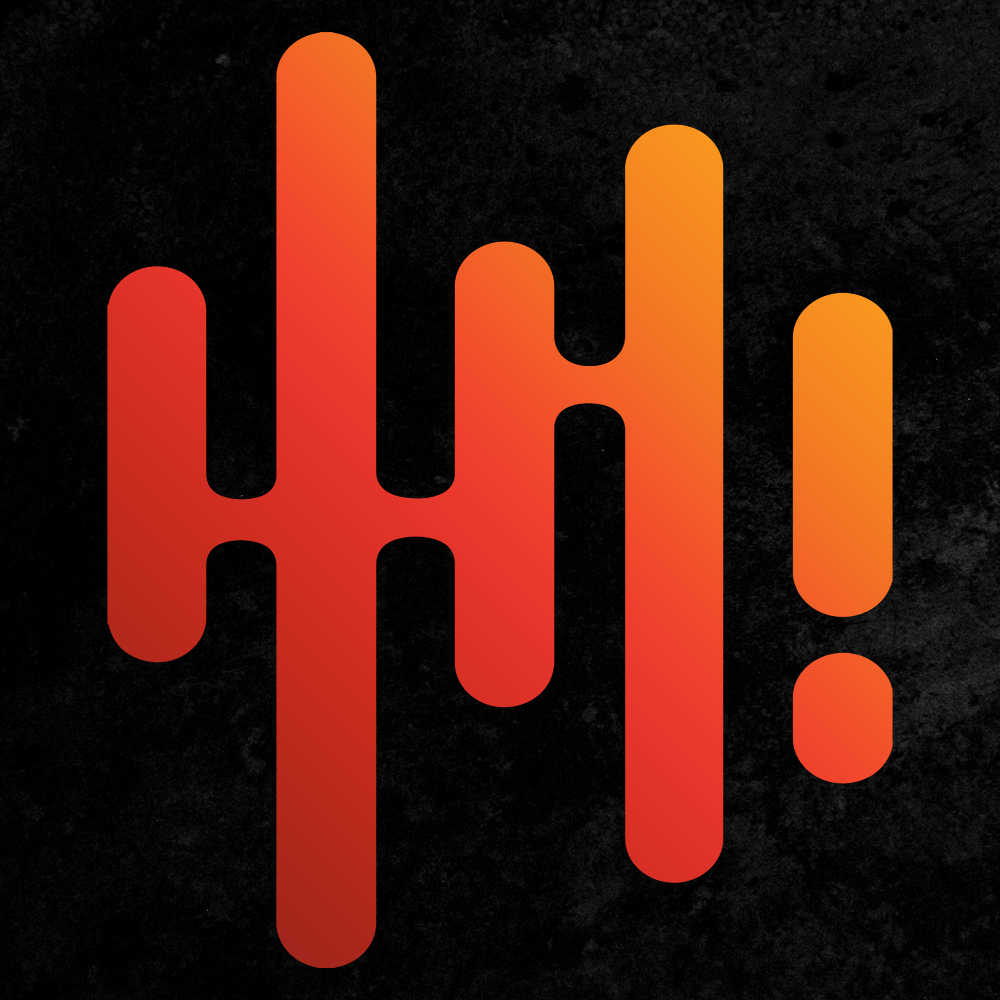
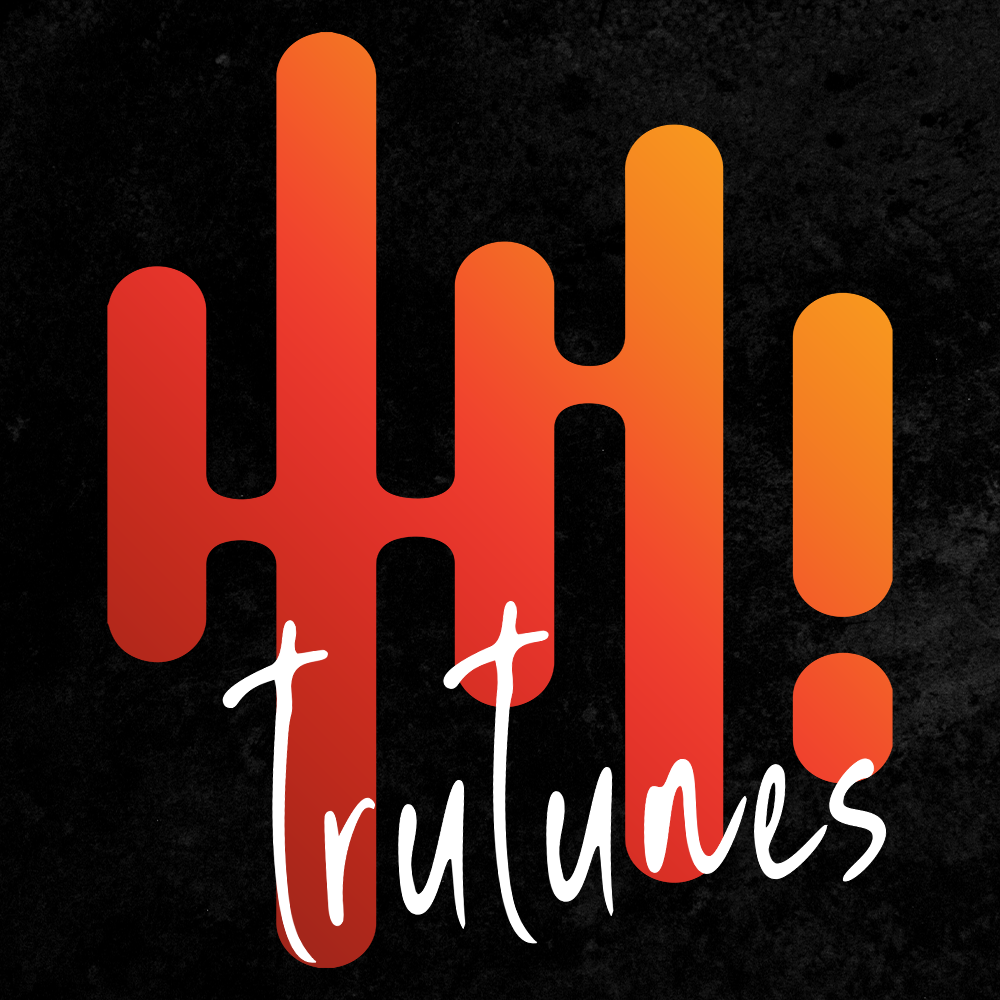
Add files via upload

Changed region(s): [[0.434, 0.589, 0.899, 0.961], [0.217, 0.62, 0.465, 0.961]]

diff --git a/playlist.html b/playlist.html
@@ -13,14 +13,25 @@
 :: PAGE INFO
 - - - - - - - - - - - - - -->
 <title>TruTunes Playlist</title>
-<link rel="icon" type="image/x-icon" href="img/favicon.ico"/>
+<link rel="icon" type="image/png" sizes="32x32" href="img/fav32.png">
+<link rel="icon" type="image/png" sizes="16x16" href="img/fav16.png">
+<!--  - - - - - - - - - - - -
+:: LINK PARSER
+- - - - - - - - - - - - - -->
+<meta property="og:type" content="website">
+<meta property="og:site_name" content="TruTunes">
+<meta property="og:title" content="TruTunes Playlist">
+<meta property="og:description" content="Custom playlists on the go. PLAY, DOWNLOAD, and SHARE your favourite music.">
+<meta property="og:url" content="https://trutunes.github.io/playlist.html">
+<meta property="og:locale" content="en_US">
+<meta property="og:image" content="https://trutunes.github.io/img/preview.jpg">
 </head>
 <body style="overflow-y: scroll;">
 <!--  - - - - - - - - - - - -
 :: HEADER
 - - - - - - - - - - - - - -->
-<a href="#" title="TruTunes"><div class="header">
-<p>TruTunes</p>
+<a href="/" title="TruTunes"><div class="header">
+<img title="TruTunes" alt="TruTunes" src="img/logo.png" />
 </div></a>
 
 <!--  - - - - - - - - - - - -
@@ -39,7 +50,7 @@ Your browser does not support the audio element.
 :: ALBUM CARD
 - - - - - - - - - - - - - -->
 <div class="card">
-  <img id="art" src="https://upload.wikimedia.org/wikipedia/en/6/69/Toy_album_artwork.jpeg" alt="Avatar" style="width:100%;">
+  <img id="art" src="img/art.webp" alt="Album Art" style="width:100%;">
   <div class="title">
     <h3 id="name">Playlist/Album</h3> 
     <p id="author">Author/Band</p> 

diff --git a/generate.html b/generate.html
@@ -18,14 +18,25 @@ hr {margin: 2em;border: 3px solid #333;}
 :: PAGE INFO
 - - - - - - - - - - - - - -->
 <title>TruTunes - Generate Playlist</title>
-<link rel="icon" type="image/x-icon" href="img/favicon.ico"/>
+<link rel="icon" type="image/png" sizes="32x32" href="img/fav32.png">
+<link rel="icon" type="image/png" sizes="16x16" href="img/fav16.png">
+<!--  - - - - - - - - - - - -
+:: LINK PARSER
+- - - - - - - - - - - - - -->
+<meta property="og:type" content="website">
+<meta property="og:site_name" content="TruTunes">
+<meta property="og:title" content="TruTunes - Generate Playlist">
+<meta property="og:description" content="Custom playlists on the go. PLAY, DOWNLOAD, and SHARE your favourite music.">
+<meta property="og:url" content="https://trutunes.github.io/generate.html">
+<meta property="og:locale" content="en_US">
+<meta property="og:image" content="https://trutunes.github.io/img/preview.jpg">
 </head>
 <body style="overflow-y: scroll;">
 <!--  - - - - - - - - - - - -
 :: HEADER
 - - - - - - - - - - - - - -->
 <a href="generate.html" title="Generate Playlist"><div class="header">
-<p>TruTunes</p>
+<img title="TruTunes" alt="TruTunes" src="img/logo.png" />
 </div></a>
 
 <div class="content">

diff --git a/css/playlist.css b/css/playlist.css
@@ -41,7 +41,7 @@ audio {
 .content {
   max-width: 960px;
   margin: 0 auto;
-  margin-top: 80px;
+  margin-top: 118px;
   margin-bottom: 118px;
 }
 @media only screen and (min-width: 768px) {
@@ -85,8 +85,10 @@ audio {
   left: 0;
   box-shadow: -5px 0 10px 0 rgba(0, 0, 0, 0.2);
 }
-.header p {
-  margin: 15px 30px;
+.header img {
+  height: 50px;
+  width: auto;
+  margin: 15px;
   font-weight: 700;
 }
 
